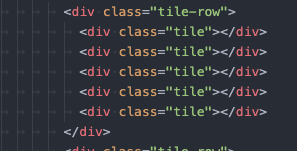
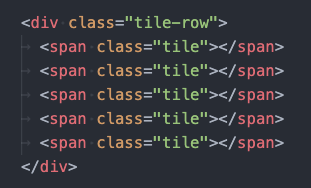
Wordle lab: change tiles to span so it's not a see of divs.

diff --git a/wordle/part-one/README.md b/wordle/part-one/README.md
@@ -152,27 +152,32 @@ Now we are going to add the missing HTML to make the game grid. We ultimately wa
 
 	![Board rows](images/board-rows.png)
 
+	I'm using `<div>` elements to create rows here because `<div>`s create logical _divisions_ in a page (i.e., divisions when we need rows for our game grid).
+
 1. Save the file, and refresh the page in Chrome. Look at the HTML inspector to see your added rows (currently they have no color, so you will only see them when hovering over them in the inspector). Click on the `board` element and make sure the alignment looks like this:
 
 	![Good board rows](images/board-rows-good.png)
 
-1. Now let's add tile elements to each row. Add **five** `<div>` elements with `class="tile"` as children of each `tile-row` element:
+1. Now let's add tile elements to each row. Add **five** `<span>` elements with `class="tile"` as **children** of each `tile-row` element:
 	```html
 	...
 	<div class="board">
 		<div class="tile-row">
-			<div class="tile"></div>
+			<span class="tile"></span>
 			<!-- ... five tiles total -->
 		</div>
 		...
 	</div>
 	...
 	```
+
+	Here I'm changing to using `<span>` elements primarily to mix it up a bit instead of using `<div>`s for everything, BUT it is important to know that `<div>`s and `<span>`s are **two common generic container elements** to create _divisions_ ("div" short for "division") and organization (parent container elements) in the HTML.
+
 	> TIP: Copy/paste is your friend!
 	>
-	> Copy a `tile` `<div>` by clicking at the end of a line, using `Shift + Home` to highlight the entire line, copy `Ctrl + c`, insert a new line below with `Ctrl + Enter`, and then paste `Ctrl + v`. Repeat. Try to maintain correct tabbing so elements stay aligned. You can move lines left and right using `Ctrl + [` and `Ctrl + ]`, respectively.
+	> Copy a `tile` `<span>` by clicking at the end of a line, using `Shift + Home` to highlight the entire line, copy `Ctrl + c`, insert a new line below with `Ctrl + Enter`, and then paste `Ctrl + v`. Repeat. Try to maintain correct tabbing so elements stay aligned. You can move lines left and right using `Ctrl + [` and `Ctrl + ]`, respectively.
 
-	After adding tiles to one row, it should look like this:
+	After adding tiles to one row, it should look like this (be mindful that the `tile-row` opening tag (`<div ...>`) starts **above** all the `tile` spans, and the `tile-row` closing tag (`</div>`) is **after** the spans):
 
 	![Row with tiles](images/complete-tile-row.png)
 
